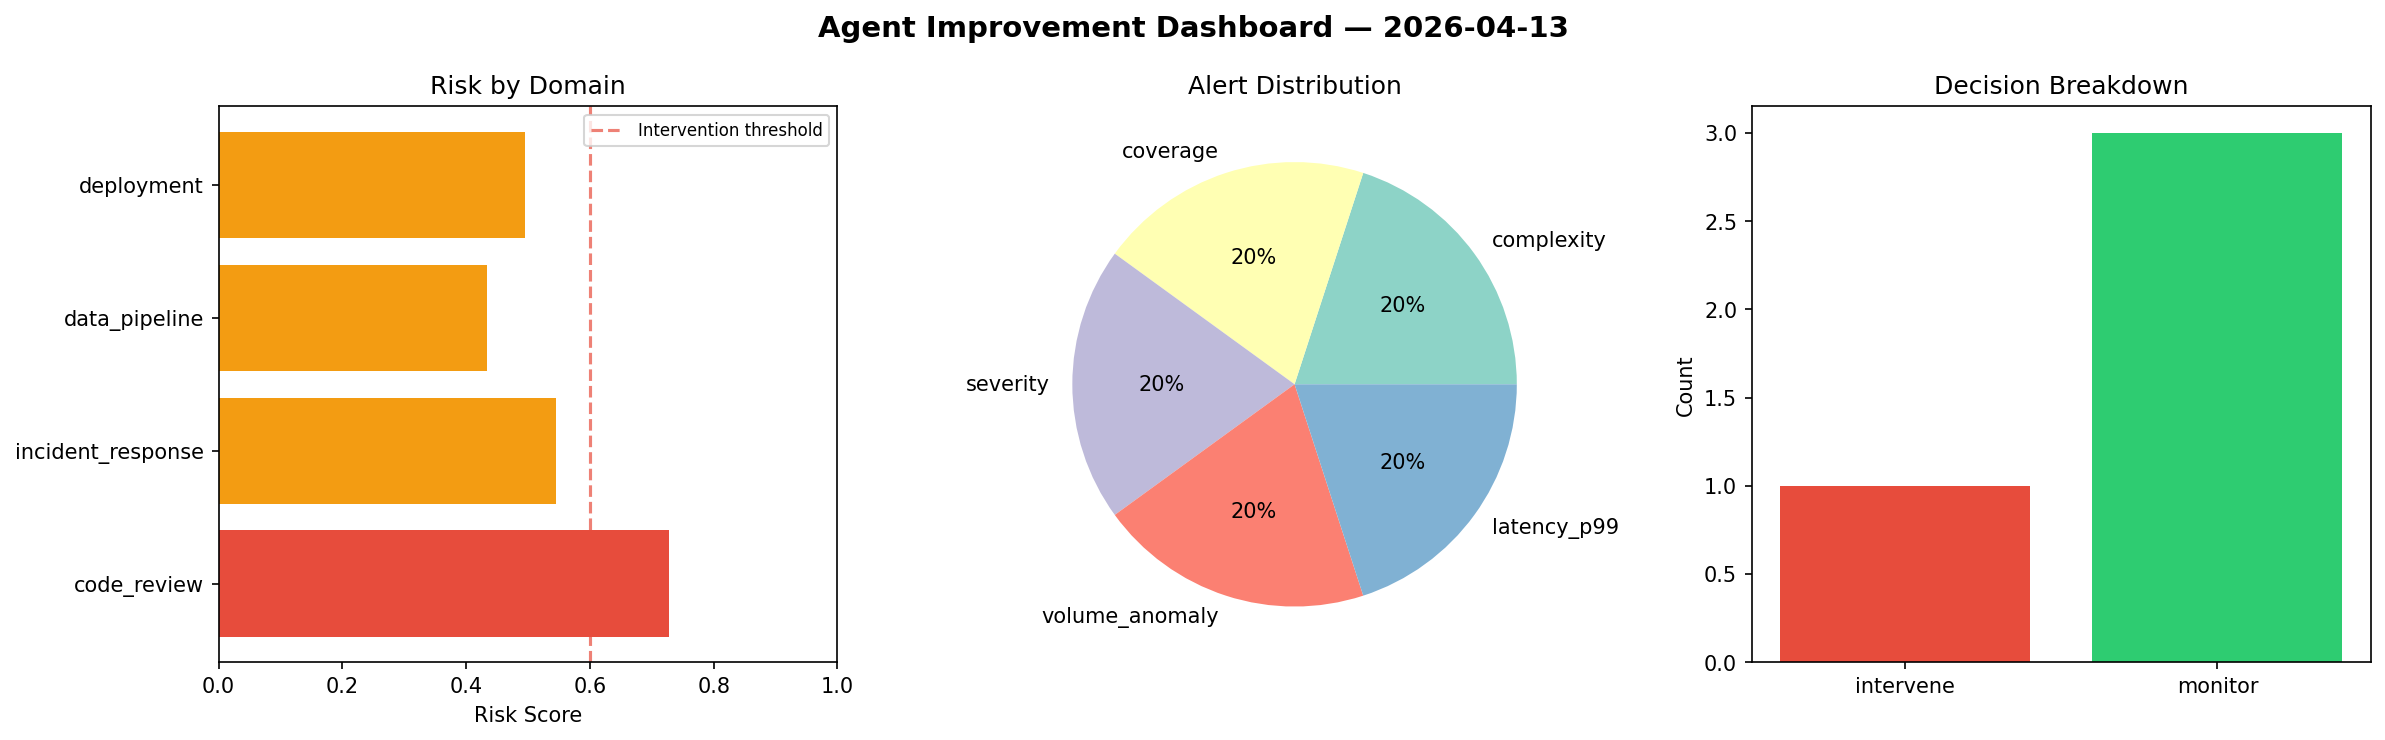
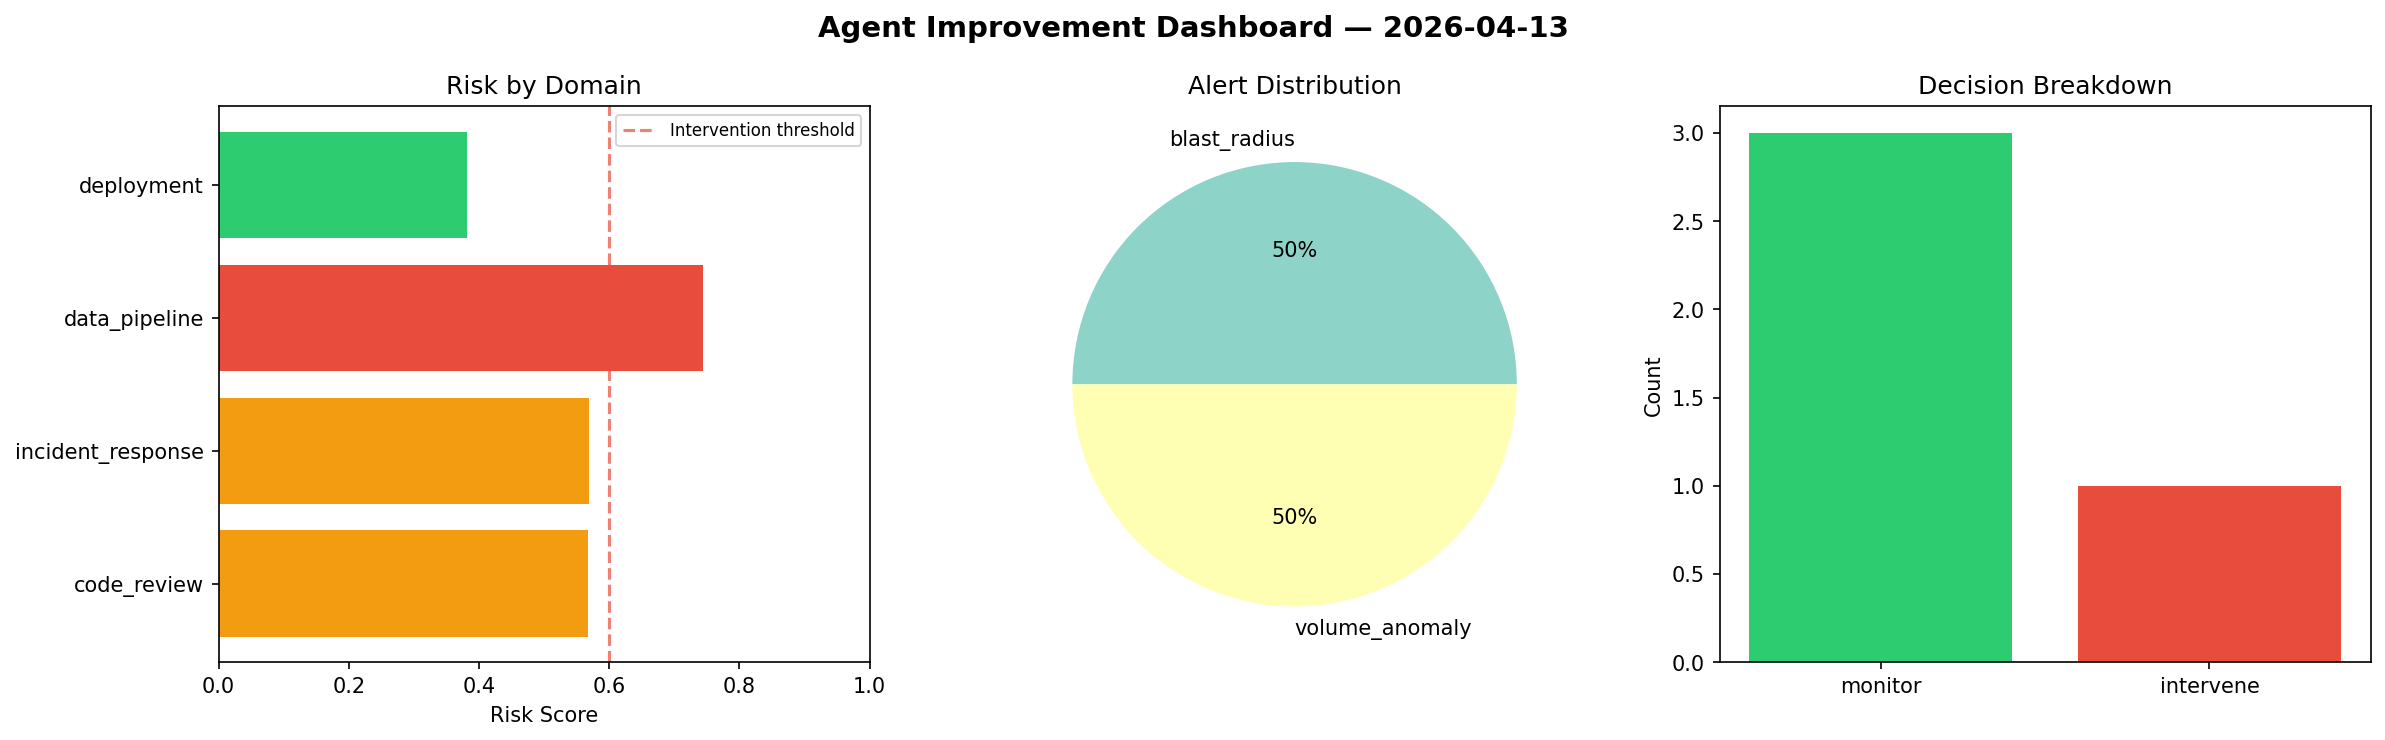
agent-improvement: daily cycle 2026-04-13T10:05

diff --git a/logs/2026-04-13.md b/logs/2026-04-13.md
@@ -1,6 +1,6 @@
 # Agent Improvement Report — 2026-04-13
 
-**Cycle ID:** `26a90217` | **Avg Risk:** 0.5502 | **Interventions:** 1/4
+**Cycle ID:** `3b2ccb1e` | **Avg Risk:** 0.5653 | **Interventions:** 1/4
 
 ![Dashboard](2026-04-13_dashboard.png)
 
@@ -10,18 +10,18 @@
 
 | Domain | Risk Score | Decision | Alerts |
 |--------|-----------|----------|--------|
-| code_review | 0.7276 | intervene | complexity, coverage |
-| incident_response | 0.5451 | monitor | severity |
-| data_pipeline | 0.4331 | monitor | volume_anomaly |
-| deployment | 0.4949 | monitor | latency_p99 |
+| code_review | 0.5668 | monitor | none |
+| incident_response | 0.5691 | monitor | blast_radius |
+| data_pipeline | 0.7441 | intervene | volume_anomaly |
+| deployment | 0.3812 | monitor | none |
 
 ## Delta vs Yesterday
 
 | Domain | Today | Yesterday | Change |
 |--------|-------|-----------|--------|
-| code_review | 0.7276 | 0.2747 | 📈 164.9% |
-| incident_response | 0.5451 | 0.5644 | 📉 -3.4% |
-| data_pipeline | 0.4331 | 0.741 | 📉 -41.6% |
-| deployment | 0.4949 | 0.3932 | 📈 25.9% |
+| code_review | 0.5668 | 0.2747 | 📈 106.3% |
+| incident_response | 0.5691 | 0.5644 | 📈 0.8% |
+| data_pipeline | 0.7441 | 0.741 | 📈 0.4% |
+| deployment | 0.3812 | 0.3932 | 📉 -3.1% |
 
 **Refinement:** `{'adjustment': 'maintain', 'trend': 'improving', 'window': 4}`
